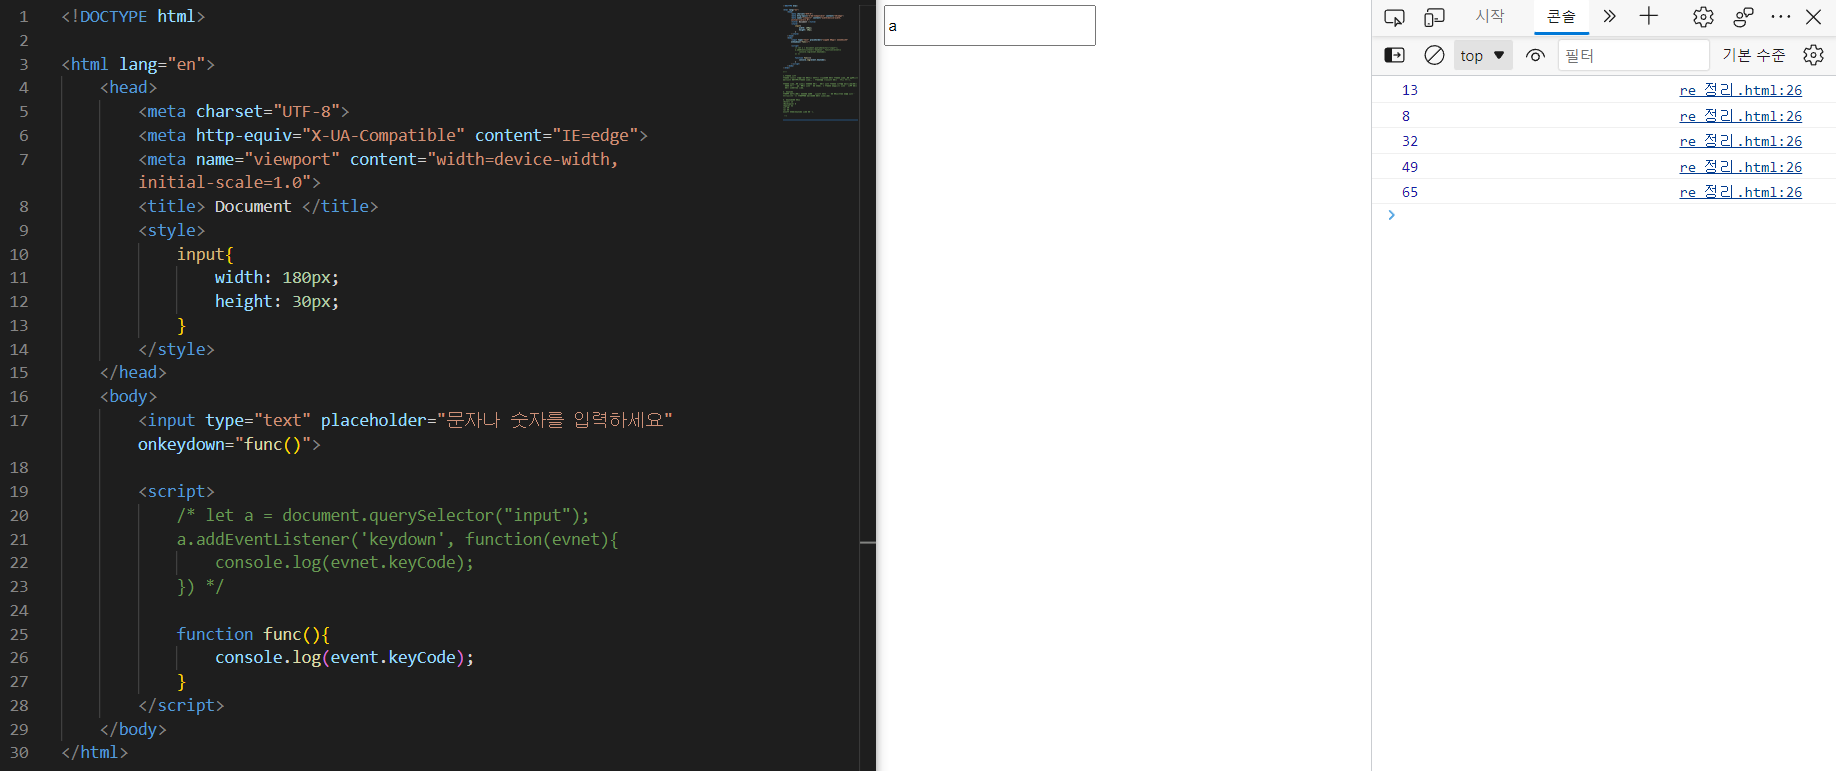
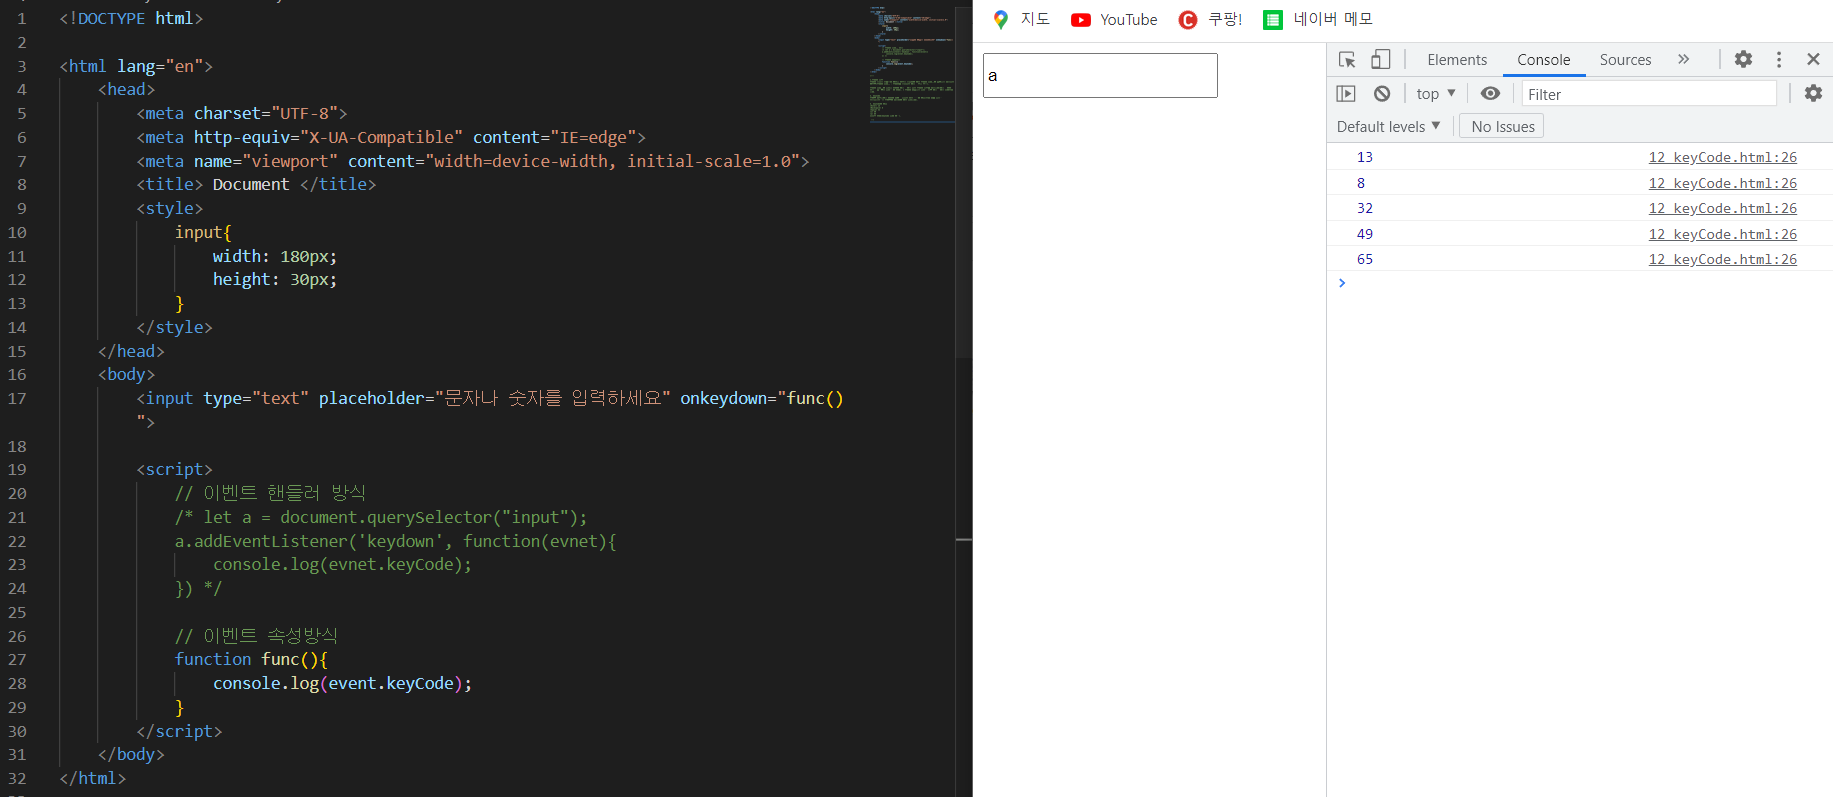
green

Changed region(s): [[0.0, 0.0623, 0.4354, 0.9961], [0.3732, 0.0, 1.0, 1.0], [0.0311, 0.0, 0.1244, 0.0311]]

diff --git a/정리/8.9~8.12/keyCode/12 keyCode.html b/정리/8.9~8.12/keyCode/12 keyCode.html
@@ -14,17 +14,19 @@
         </style>
     </head>
     <body>
-        <input type="text" placeholder="문자나 숫자를 입력하세요" onkeydown="func()">
+        <input type="text" placeholder="문자나 숫자를 입력하세요"> <!-- onkeydown="func()" -->
         
         <script>
-            /* let a = document.querySelector("input");
+            // 이벤트 핸들러 방식
+            let a = document.querySelector("input");
             a.addEventListener('keydown', function(evnet){
                 console.log(evnet.keyCode);
-            }) */
+            })
 
-            function func(){
+            // 이벤트 속성방식
+            /* function func(){
                 console.log(event.keyCode);        
-            }
+            } */
         </script>
     </body>
 </html>
